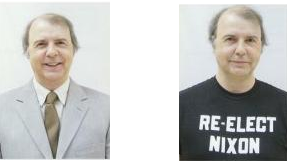
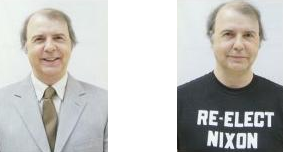
change image and stylesheet to match switch to PNG

diff --git a/stylesheets/screen.css b/stylesheets/screen.css
@@ -425,10 +425,10 @@ blockquote {
 }
 
 img {
-  -webkit-box-shadow: 0px 2px 0px #bdb6ad;
-  -moz-box-shadow: 0px 2px 0px #bdb6ad;
-  box-shadow: 0px 2px 0px #bdb6ad;
-  border: 2px solid #fff6e9;
+  -webkit-box-shadow: 0px 0px 0px #bdb6ad;
+  -moz-box-shadow: 0px 0px 0px #bdb6ad;
+  box-shadow: 0px 0px 0px #bdb6ad;
+  border: 0px solid #fff6e9;
   max-width: 502px;
 }
 

diff --git a/index.html b/index.html
@@ -39,8 +39,10 @@
         </span> 
         
           <p style="text-align: center;">
-        <img src="/files/Shawn_Photo.png">
-        <br/><br/>
+        
+          <img src="/files/Shawn_Photo.png">
+        
+          <br/><br/>
 
         (1959 – ) 
         
